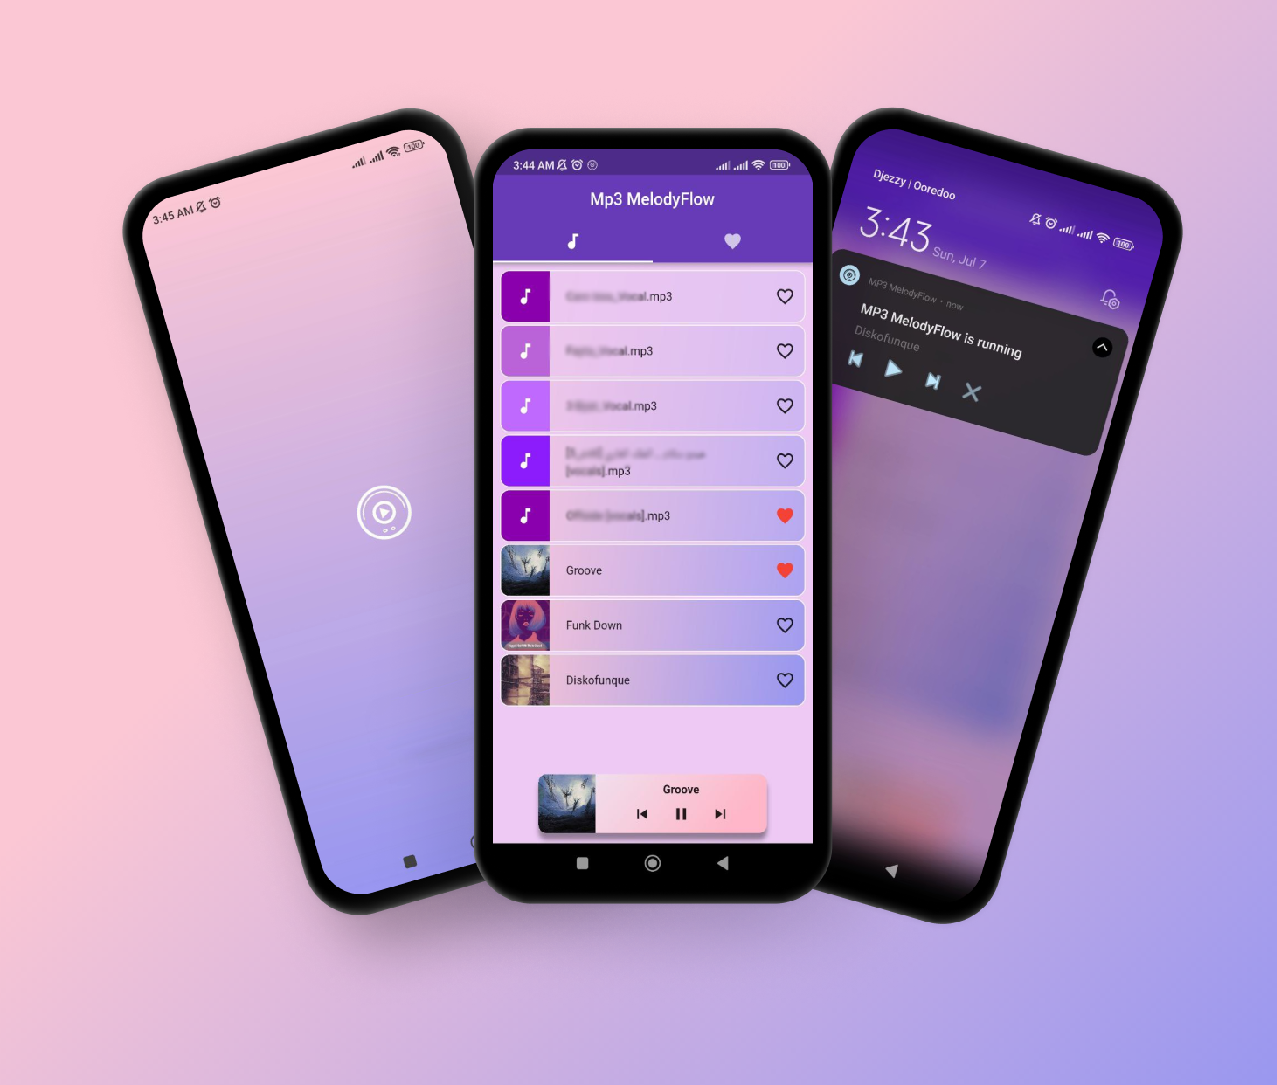
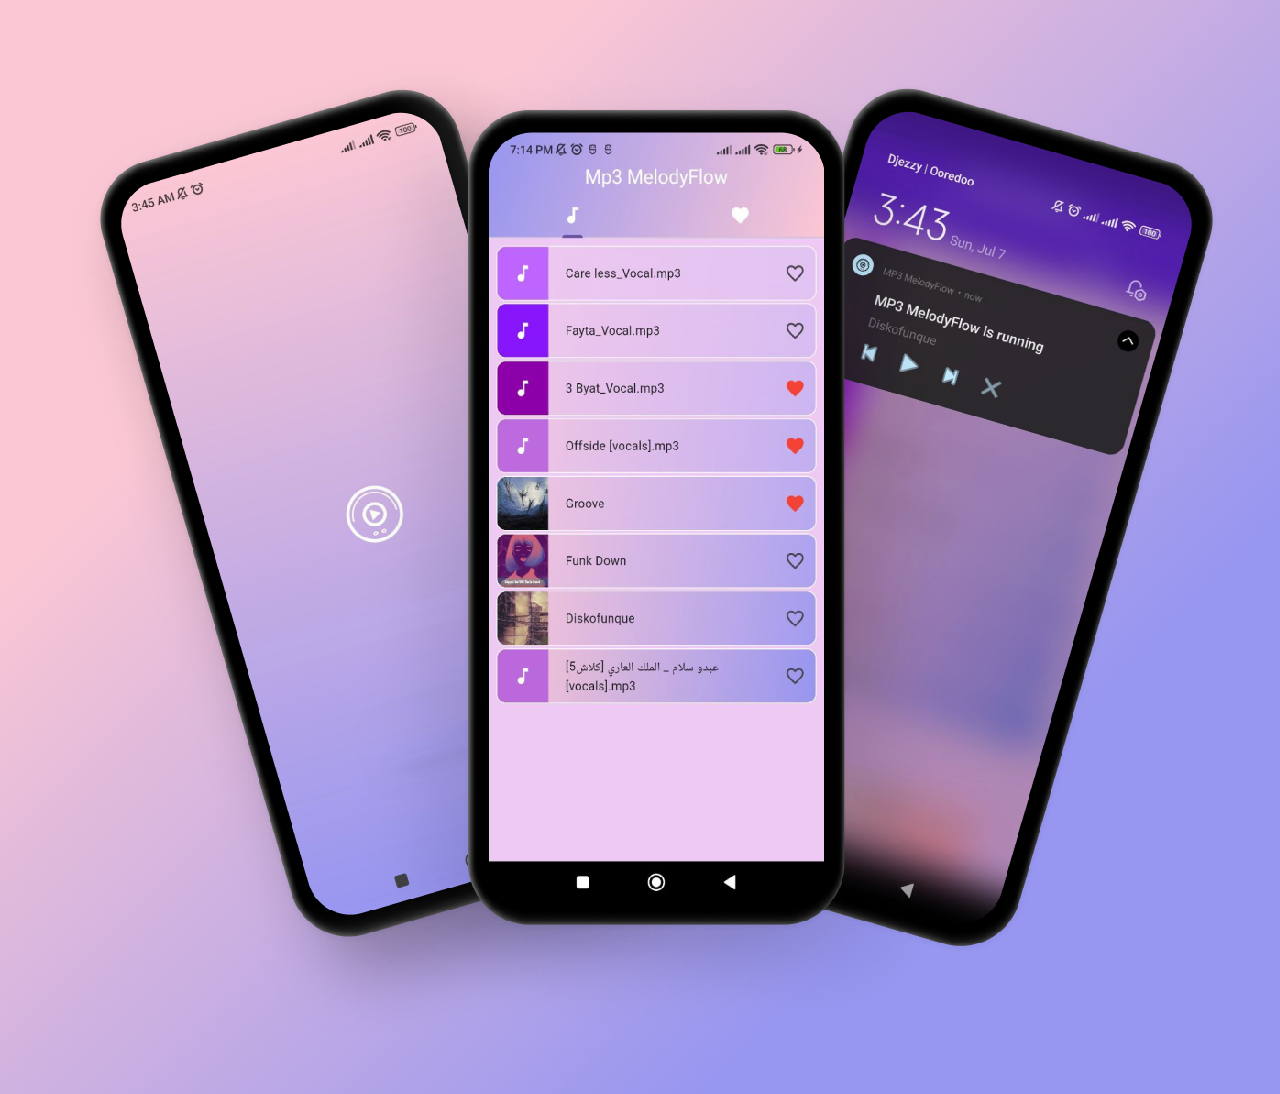
demo

diff --git a/lib/Views/home_page.dart b/lib/Views/home_page.dart
@@ -58,9 +58,21 @@ class _HomePageState extends State<HomePage> with TickerProviderStateMixin {
         },
       ),
       appBar: AppBar(
+        toolbarHeight: 40,
+        foregroundColor: Colors.white,
+        flexibleSpace: Container(
+          decoration: const BoxDecoration(
+            gradient: LinearGradient(
+                begin: Alignment.topLeft,
+                end: Alignment.bottomRight,
+                colors: <Color>[Color(0xff9796f0), Color(0xfffbc7d4)]),
+          ),
+        ),
         centerTitle: true,
         title: const Text('Mp3 MelodyFlow'),
         bottom: TabBar(
+          unselectedLabelColor: Colors.white,
+          labelColor: Colors.white,
           controller: _tabController,
           tabs: const <Widget>[
             Tab(icon: Icon(Icons.audiotrack)),
@@ -124,7 +136,7 @@ class TrackListView extends StatelessWidget {
                   return Image.asset(
                     "assets/images/empty-folder.png",
                     scale: 3,
-                    color: Colors.deepPurple,
+                    color: Color.fromARGB(255, 164, 163, 255),
                   );
                 } else {
                   return ListView(
